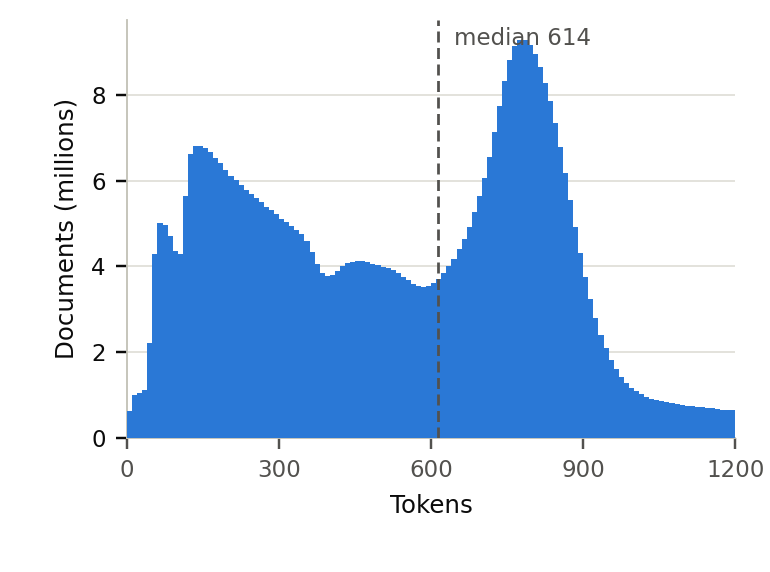
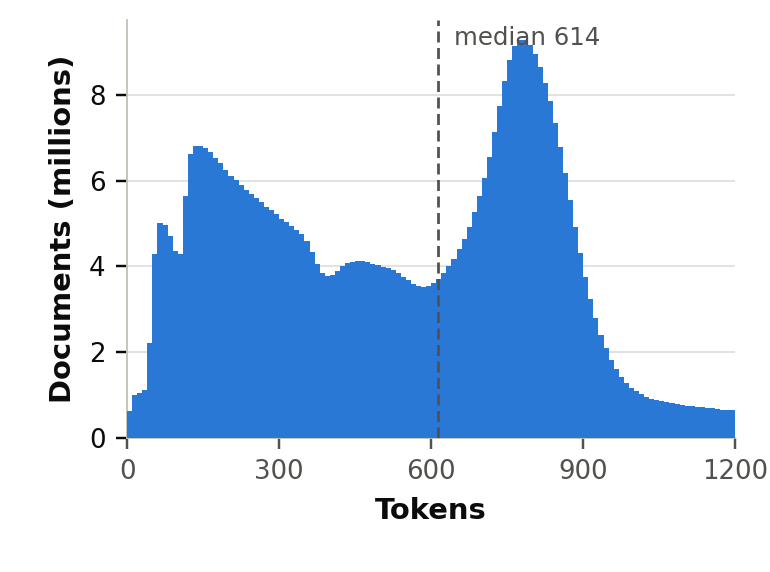
update the corpus figures (#4)

diff --git a/corpus_analysis/figures/make_figures.py b/corpus_analysis/figures/make_figures.py
@@ -29,9 +29,11 @@ import matplotlib.pyplot as plt
 
 import config
 from figures.palette import (C_80, C_90, C_BAR, C_EXACT, C_MEDIAN, C_NONE, C_P75,
-                             C_P90, C_70, GRID, INK, INK_2, INK_3, LEN_FIGSIZE,
-                             LEN_MARGINS, PIE_FIGSIZE, PIE_FONT, PIE_LABEL_X, PIE_R,
-                             PIE_XLIM, PIE_YLIM, RCPARAMS, TY_BANDS)
+                             C_P90, C_70, GRID, INK, INK_2, INK_3, LABEL_WEIGHT,
+                             LEN_ANNOT, LEN_FIGSIZE, LEN_LABEL, LEN_MARGINS, LEN_TICK,
+                             PIE_FIGSIZE, PIE_FONT, PIE_LABEL_X, PIE_R, PIE_XLIM,
+                             PIE_YLIM, QUART_ANNOT, QUART_LEGEND, QUART_TICK,
+                             RCPARAMS, TY_BANDS)
 
 matplotlib.rcParams.update(RCPARAMS)
 
@@ -145,7 +147,7 @@ def fig_quartiles(out_dir, fig_dir):
     rows = [(J70, "near_0.7"), (J80, "near_0.8"), (J90, "near_0.9"),
             ("Exact duplicate", "exact")]
     cols = [C_70, C_80, C_90, C_EXACT]
-    ANN = dict(fontsize=5.4, color=INK_3)
+    ANN = dict(fontsize=QUART_ANNOT, color=INK_3)
     DY, RULE = 0.02, 0.20
     BREAK_X, TICK_X, XHI = 12.4, 14.2, 17.8
     MINIMUM = 1
@@ -169,16 +171,17 @@ def fig_quartiles(out_dir, fig_dir):
         ax.plot([TICK_X, TICK_X], [yi - 0.13, yi + 0.13], color=INK_3, linewidth=0.9,
                 zorder=4)
         ax.text(med, yi - RULE - DY, f"{med}", ha="center", va="top",
-                fontsize=5.4, color=C_MEDIAN)
+                fontsize=QUART_ANNOT, color=C_MEDIAN)
         ax.text(p75, yi + RULE + DY, f"{p75}", ha="center", va="bottom",
-                fontsize=5.4, color=C_P75)
+                fontsize=QUART_ANNOT, color=C_P75)
         ax.text(hi, yi + RULE + DY, f"{hi}", ha="center", va="bottom",
-                fontsize=5.4, color=C_P90)
+                fontsize=QUART_ANNOT, color=C_P90)
         ax.text(TICK_X + 0.35, yi, f"{d['max']:,}", ha="left", va="center", **ANN)
 
     ax.set_yticks(ys)
-    ax.set_yticklabels([r[0] for r in rows], fontsize=8)
-    ax.set_xlabel("Duplicates per document")
+    ax.set_yticklabels([r[0] for r in rows], fontsize=QUART_TICK)
+    ax.set_xlabel("Duplicates per document", fontsize=QUART_TICK,
+                  fontweight=LABEL_WEIGHT)
     ax.set_xlim(0, XHI)
     ax.set_xticks([0, 5, 10])
     ax.set_ylim(-0.62, len(rows) - 0.38)
@@ -191,7 +194,7 @@ def fig_quartiles(out_dir, fig_dir):
                for cc, nm in ((C_MEDIAN, "median"), (C_P75, "p75"), (C_P90, "p90"))]
     handles.append(plt.Line2D([0], [0], color=INK_3, linewidth=0.9, label="max"))
     ax.legend(handles=handles, loc="center left", bbox_to_anchor=(1.005, 0.5), ncol=1,
-              frameon=False, fontsize=5.8, handlelength=1.4, labelspacing=0.75,
+              frameon=False, fontsize=QUART_LEGEND, handlelength=1.4, labelspacing=0.75,
               handletextpad=0.4, borderaxespad=0.0)
     fig.subplots_adjust(left=0.305, right=0.795, top=0.955, bottom=0.235)
     save(fig, fig_dir, "fig_quartiles_duplicates")
@@ -200,7 +203,9 @@ def fig_quartiles(out_dir, fig_dir):
 # ------------------------------------------------------------------ length
 
 def _len_axes(ax):
-    ax.set_ylabel("Documents (millions)")
+    ax.set_ylabel("Documents (millions)", fontsize=LEN_LABEL,
+                  fontweight=LABEL_WEIGHT)
+    ax.tick_params(axis="both", labelsize=LEN_TICK)
     ax.spines[["top", "right"]].set_visible(False)
     ax.yaxis.grid(True, color=GRID, linewidth=0.6, zorder=0)
     ax.set_axisbelow(True)
@@ -223,8 +228,9 @@ def fig_length_a(out_dir, fig_dir, tokenizer):
            color=C_BAR, linewidth=0, zorder=3)
     ax.axvline(med, color=INK_2, linewidth=0.9, linestyle=(0, (4, 2)), zorder=4)
     ax.annotate(f"median {med:.0f}", xy=(med, ax.get_ylim()[1] * 0.94),
-                xytext=(5, 0), textcoords="offset points", fontsize=7.5, color=INK_2)
-    ax.set_xlabel("Tokens")
+                xytext=(5, 0), textcoords="offset points", fontsize=LEN_ANNOT,
+                color=INK_2)
+    ax.set_xlabel("Tokens", fontsize=LEN_LABEL, fontweight=LABEL_WEIGHT)
     ax.set_xlim(0, h["hi"])
     step = 300 if h["hi"] > 1000 else 200
     ax.set_xticks(list(range(0, h["hi"] + 1, step)))
@@ -251,14 +257,15 @@ def fig_length_b(out_dir, fig_dir, tokenizer):
     fig, ax = plt.subplots(figsize=LEN_FIGSIZE)
     ax.bar(xs, vals, width=0.82, color=C_BAR, linewidth=0, zorder=3)
     ax.set_xticks(xs)
-    ax.set_xticklabels(lab, fontsize=7, rotation=45, ha="right")
-    ax.set_xlabel("Tokens (bucket lower bound)")
+    ax.set_xticklabels(lab, fontsize=LEN_TICK, rotation=45, ha="right")
+    ax.set_xlabel("Tokens (bucket lower bound)", fontsize=LEN_LABEL,
+                  fontweight=LABEL_WEIGHT)
     _len_axes(ax)
     top = max(vals)
     for x, v in zip(xs, vals):
         if v > top * 0.25:
             ax.text(x, v + top * 0.02, f"{v:.0f}", ha="center", va="bottom",
-                    fontsize=6.8, color=INK_2)
+                    fontsize=LEN_ANNOT, color=INK_2)
     fig.subplots_adjust(**LEN_MARGINS)
     save(fig, fig_dir, "fig_length_b_buckets")
     for x, lo in zip(b, lab):

diff --git a/corpus_analysis/figures/palette.py b/corpus_analysis/figures/palette.py
@@ -64,3 +64,15 @@ LEN_FIGSIZE = (3.5, 2.6)
 LEN_MARGINS = dict(left=0.165, right=0.955, top=0.965, bottom=0.235)
 
 QUART_FIGSIZE = PIE_FIGSIZE             # pairs with the composition pie
+
+# Font sizes are named rather than inlined so paired figures cannot drift apart: the
+# quartile rows match the pie's label size, and both length panels take identical sizes for
+# equivalent elements (they previously used 7 / 6.8 / 7.5 for the same roles).
+QUART_TICK = PIE_FONT                   # row labels, matching the pie
+QUART_ANNOT = 6.6                       # percentile values and the maximum
+QUART_LEGEND = 7.0
+
+LEN_LABEL = 9.5                         # axis labels, drawn bold
+LEN_TICK = 8.5                          # tick labels on both axes
+LEN_ANNOT = 8.0                         # in-plot annotations and bar values
+LABEL_WEIGHT = "bold"
